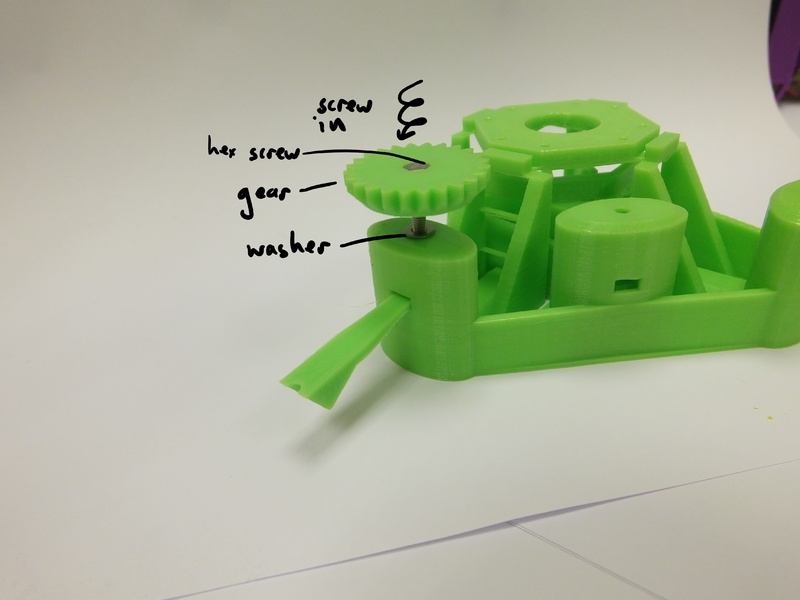
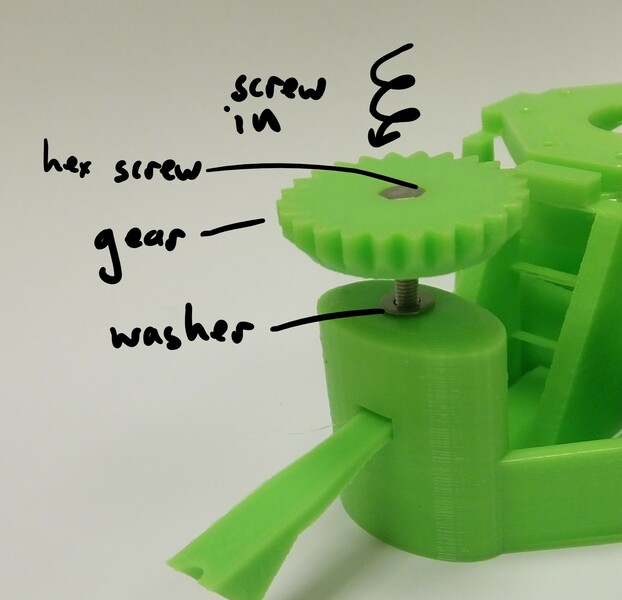
deleted old images and cropped too-big images

diff --git a/docs/2b_high_resolution_optics_module.md b/docs/2b_high_resolution_optics_module.md
@@ -49,7 +49,8 @@ Next, put the lens into the push-fit holder.  Start by placing the tube lens ins
 ## Step 5
 Screw the objective into the plastic casing.  The printed thread is not hugely strong, and may not have printed very precisely - the means it might be a little loose or a little tight, and you need to be very careful to screw the objective in straight in order to avoid cross-threading.
 
-![The objective, in place in the optics module](./images/hires_optics_objective.jpg)
+![Screw the objective in to the mount - be careful to keep it straight!](./images/hires_optics_objective_1.jpg)
+![The objective, in place in the optics module](./images/hires_optics_objective_2.jpg)
 
 ## Step 6
 We need to remove the lens from the camera.  To do this, you need the two plastic tools (the board gripper and the lens remover) as well as the camera module.  It's best to make sure you have completed the steps up to this point before removing the lens, to minimise the amount of time the sensor is exposed to air and dust.
